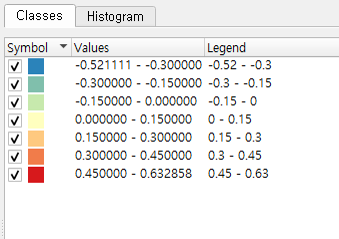
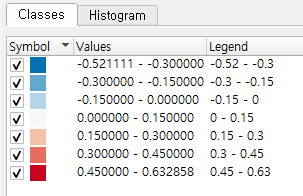
Figure5

diff --git a/Materials/Main/README.md b/Materials/Main/README.md
@@ -363,7 +363,7 @@ Open ‘Fig4_evaluation.xlsx’.
 1. Open ‘NK_siScore_grid.shp’ with QGIS software program.
 2. Set coordinate system of QGIS project by ‘Project’ tap > ‘Properties’ > ‘CRS’ > choose ‘WGS 84 / UTM zone 52N’ 
 3. Double click ‘NK_siScore_grid’ and go to the ‘symbology’ tab of layer properties. Choose ‘Graduated’ symbol function to create graduated symbols for siScore. Choose ‘19_16’ for the value. Change mode from ‘Equal Count (Quantile)’ to ‘Equal Interval’. Change the number of classes as 7. 
-4. Set ‘color ramp’ as ‘Spectral’. Right-click the color box and press ‘invert Color Ramp’.
+4. Set ‘color ramp’ as ‘RdBu'. Right-click the color box and press ‘invert Color Ramp’.
 5. Set the class values as below.
 
 <img src="./Fig/Figure5_process1.png" width="300"> 
